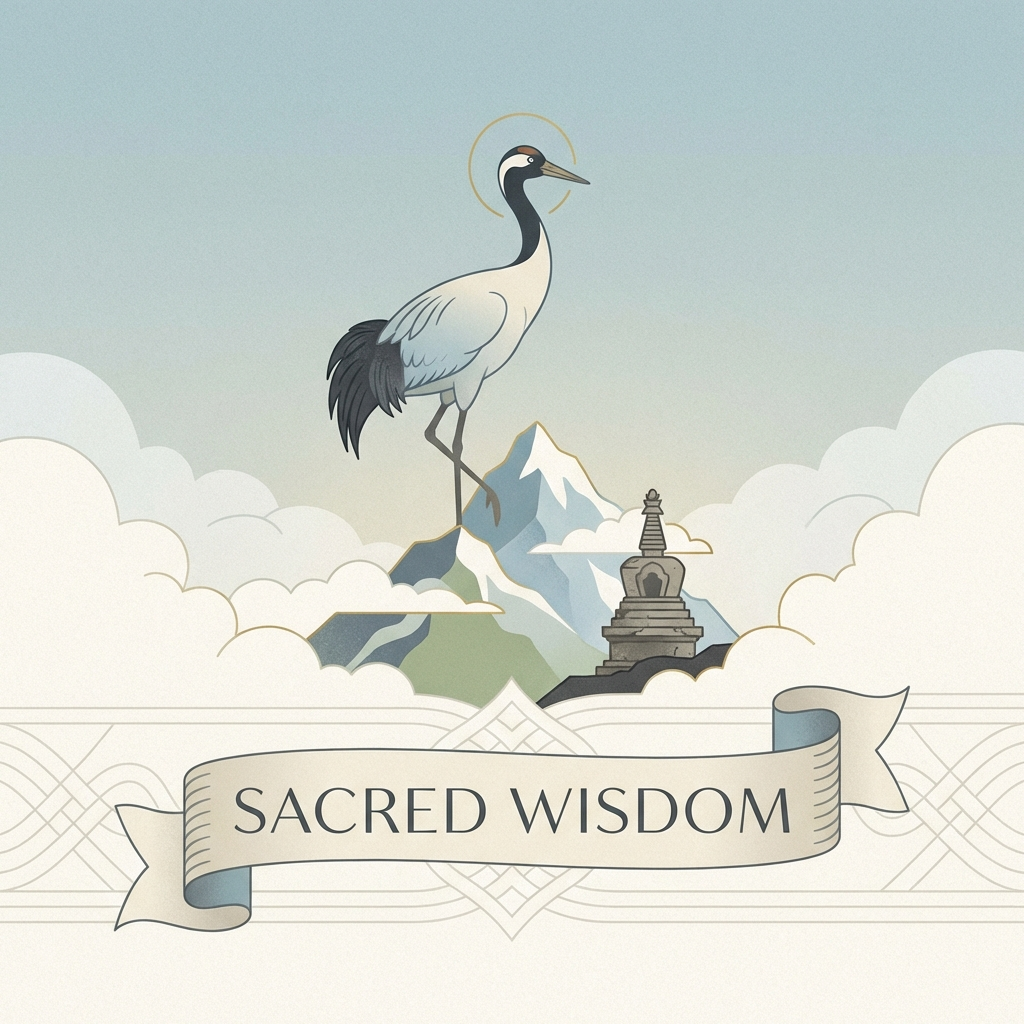
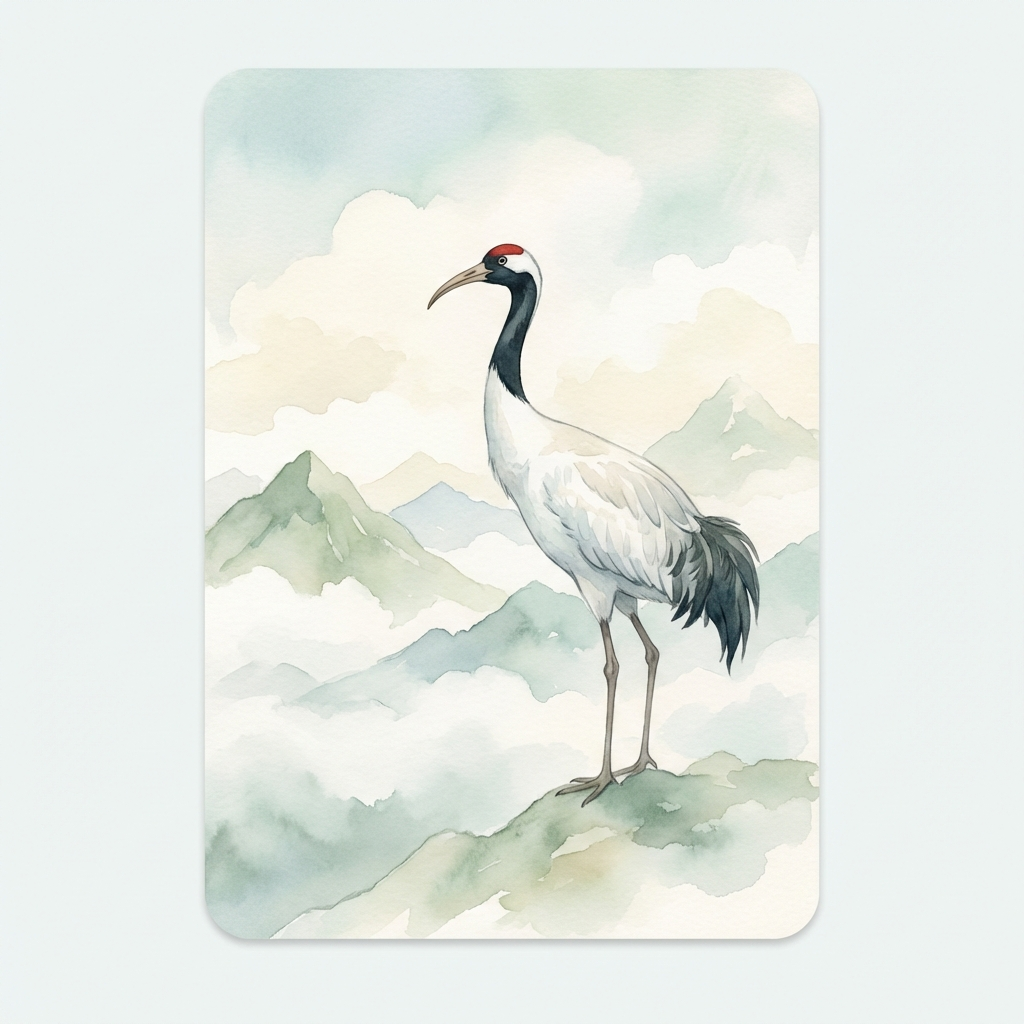
Remove SACRED WISDOM from crane, fix mobile nav landing pages, update Formspree ID

diff --git a/script.js b/script.js
@@ -15,13 +15,25 @@ document.addEventListener('DOMContentLoaded', function () {
     dropdownToggles.forEach(toggle => {
         toggle.addEventListener('click', function (e) {
             if (window.innerWidth <= 768) {
-                e.preventDefault();
                 const dropdown = this.parentElement;
                 const dropdownMenu = dropdown.querySelector('.dropdown-menu');
 
-                // Toggle the dropdown menu
-                if (dropdownMenu) {
-                    dropdownMenu.classList.toggle('mobile-active');
+                // Check if dropdown is already open
+                if (dropdownMenu && dropdownMenu.classList.contains('mobile-active')) {
+                    // If already open, allow navigation to landing page
+                    return; // Let the default link behavior work
+                } else {
+                    // First click: open the dropdown
+                    e.preventDefault();
+                    if (dropdownMenu) {
+                        // Close other open dropdowns first
+                        document.querySelectorAll('.dropdown-menu.mobile-active').forEach(menu => {
+                            if (menu !== dropdownMenu) {
+                                menu.classList.remove('mobile-active');
+                            }
+                        });
+                        dropdownMenu.classList.toggle('mobile-active');
+                    }
                 }
             }
         });

diff --git a/contact.html b/contact.html
@@ -71,7 +71,7 @@
                 <div class="form-wrapper">
                     <h2>Write to Us</h2>
                     <p>Have a question or want to share your thoughts? Send us a message.</p>
-                    <form class="contact-form" id="writeForm" action="https://formspree.io/f/xwvknyak" method="POST">
+                    <form class="contact-form" id="writeForm" action="https://formspree.io/f/mreerrva" method="POST">
                         <div class="form-group">
                             <label for="write-name">Name *</label>
                             <input type="text" id="write-name" name="name" required>
@@ -98,7 +98,7 @@
                 <div class="form-wrapper">
                     <h2>Collaborate with Us</h2>
                     <p>Interested in partnering with TenDrel Initiative? Let's explore possibilities together.</p>
-                    <form class="contact-form" id="collaborateForm" action="https://formspree.io/f/xwvknyak"
+                    <form class="contact-form" id="collaborateForm" action="https://formspree.io/f/mreerrva"
                         method="POST">
                         <div class="form-group">
                             <label for="collab-name">Name *</label>
